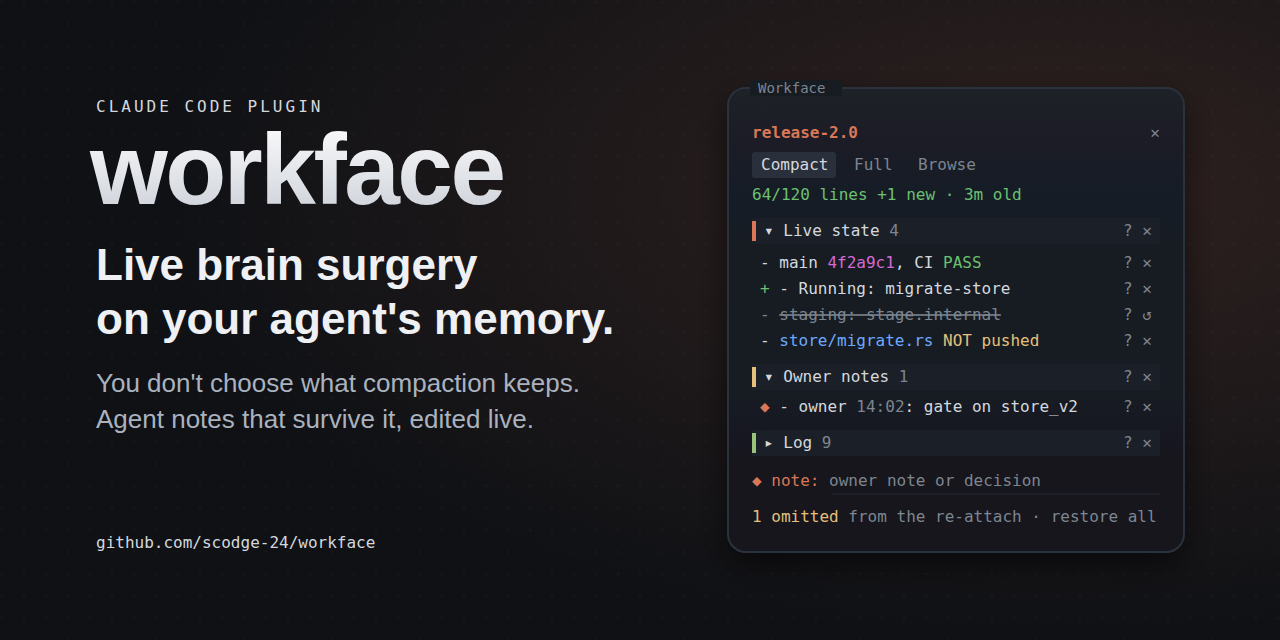
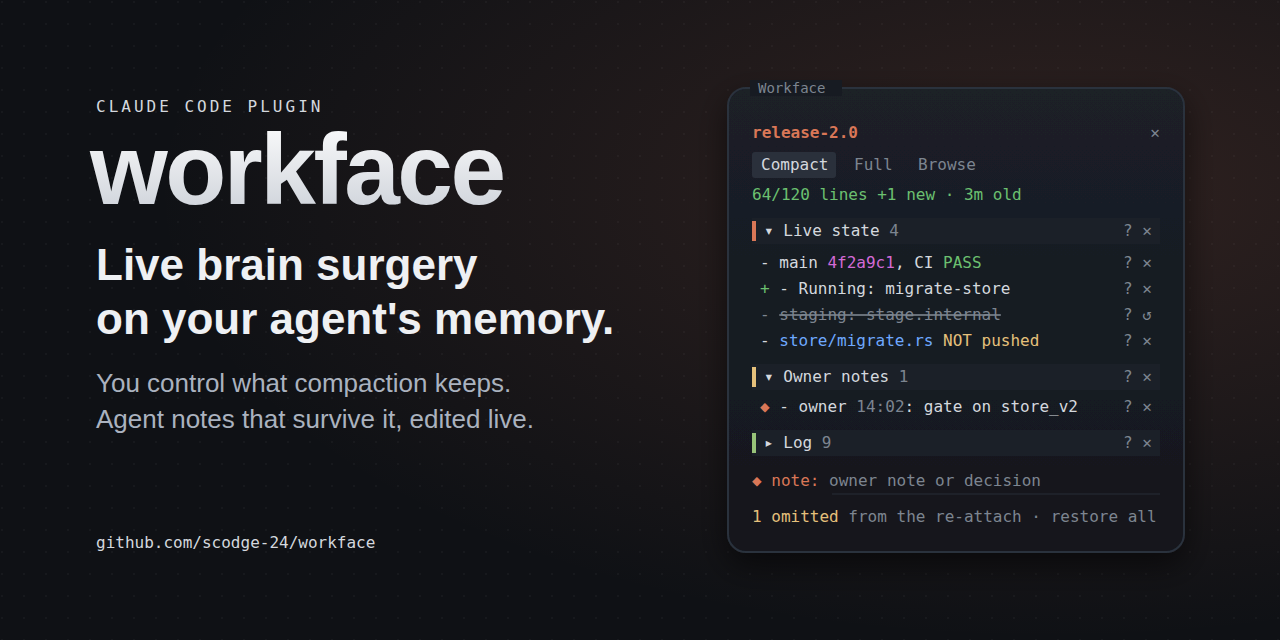
docs: "you control what compaction keeps" in hero and social; README lead says what compaction does left to itself
Claude-Session: https://claude.ai/code/session_01MnRC7PSppuXNkPzihWafgF

Changed region(s): [[0.125, 0.5625, 0.4688, 0.625]]

diff --git a/README.md b/README.md
@@ -8,8 +8,8 @@
   <a href="LICENSE"><img src="https://img.shields.io/badge/license-MIT-6cc070" alt="MIT licence"></a>
 </p>
 
-**Live brain surgery on your agent's memory.** When Claude Code compacts, you don't choose what survives, and a
-few compactions in you can't tell what the agent still knows, let alone steer it. Workface has the agent keep a
+**Live brain surgery on your agent's memory.** Left to itself, Claude Code's compaction decides what survives,
+and a few compactions in you can't tell what the agent still knows, let alone steer it. Workface has the agent keep a
 short notes file, hands it back verbatim after every compaction summary, auto or manual, and shows it live in a
 panel beside the transcript, where you cut, add or question lines before the agent wakes up with them: you choose
 what survives. One install, no setup: it works with the compaction Claude Code already does.
